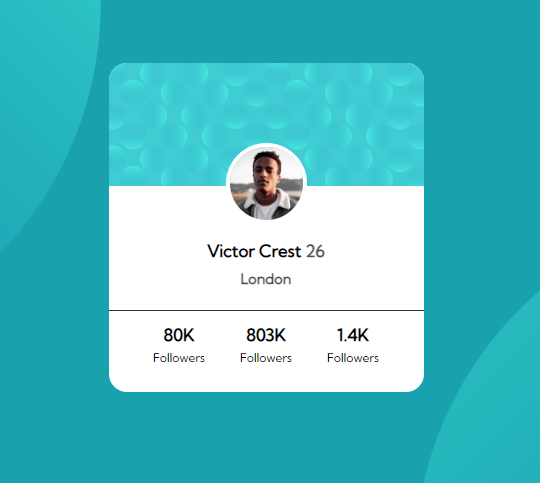
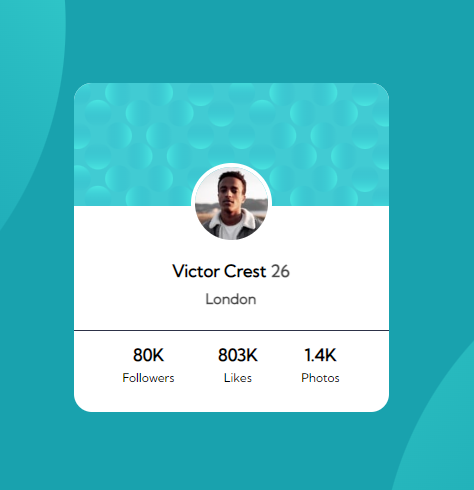
photo resize

Changed region(s): [[0.1181, 0.0, 0.827, 0.8696]]

diff --git a/8-profile-card-component/index.html b/8-profile-card-component/index.html
@@ -30,11 +30,11 @@
           </div>
           <div class="buttom-item">
             <h3>803K</h3>
-            <h5>Followers</h5>
+            <h5>Likes</h5>
           </div>
           <div class="buttom-item">
             <h3>1.4K</h3>
-            <h5>Followers</h5>
+            <h5>Photos</h5>
           </div>
         </div>
       </div>

diff --git a/8-profile-card-component/styles.css b/8-profile-card-component/styles.css
@@ -102,6 +102,8 @@
 .buttom-item > h5{
     font-weight: 200;
     margin-top: 5px;
+    text-align: center;
+
 }
 
 @media (max-width : 500px){
